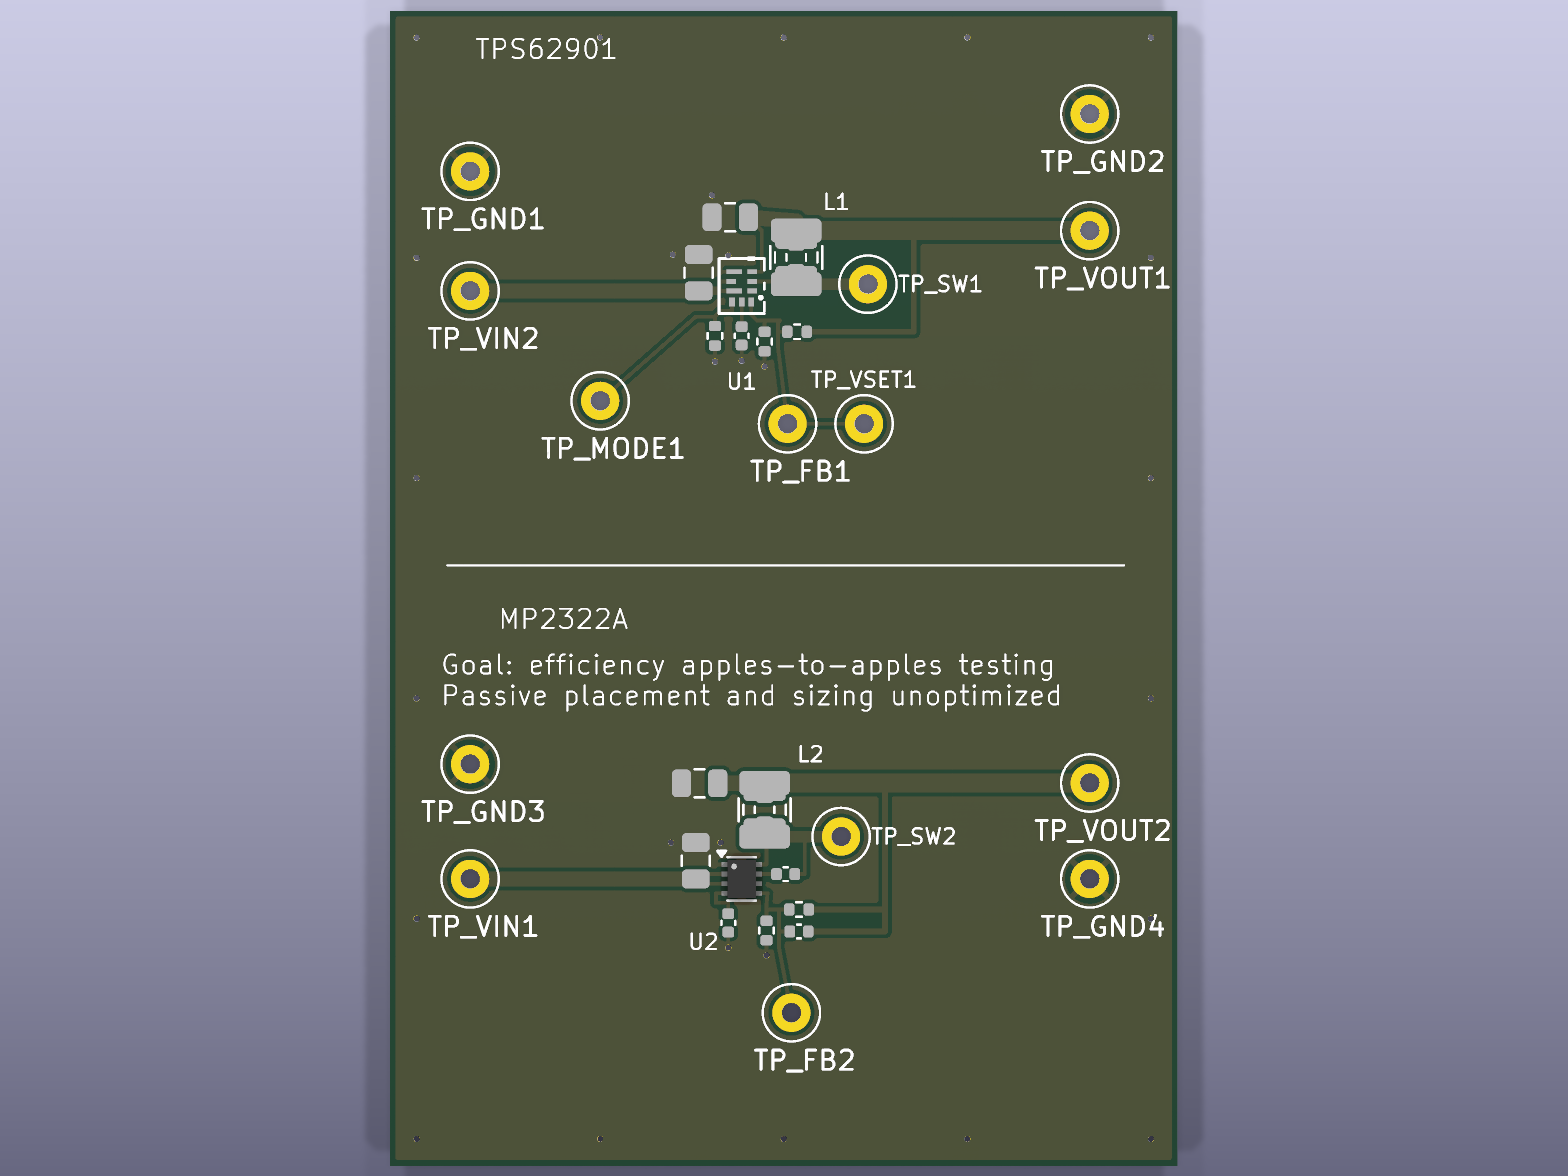
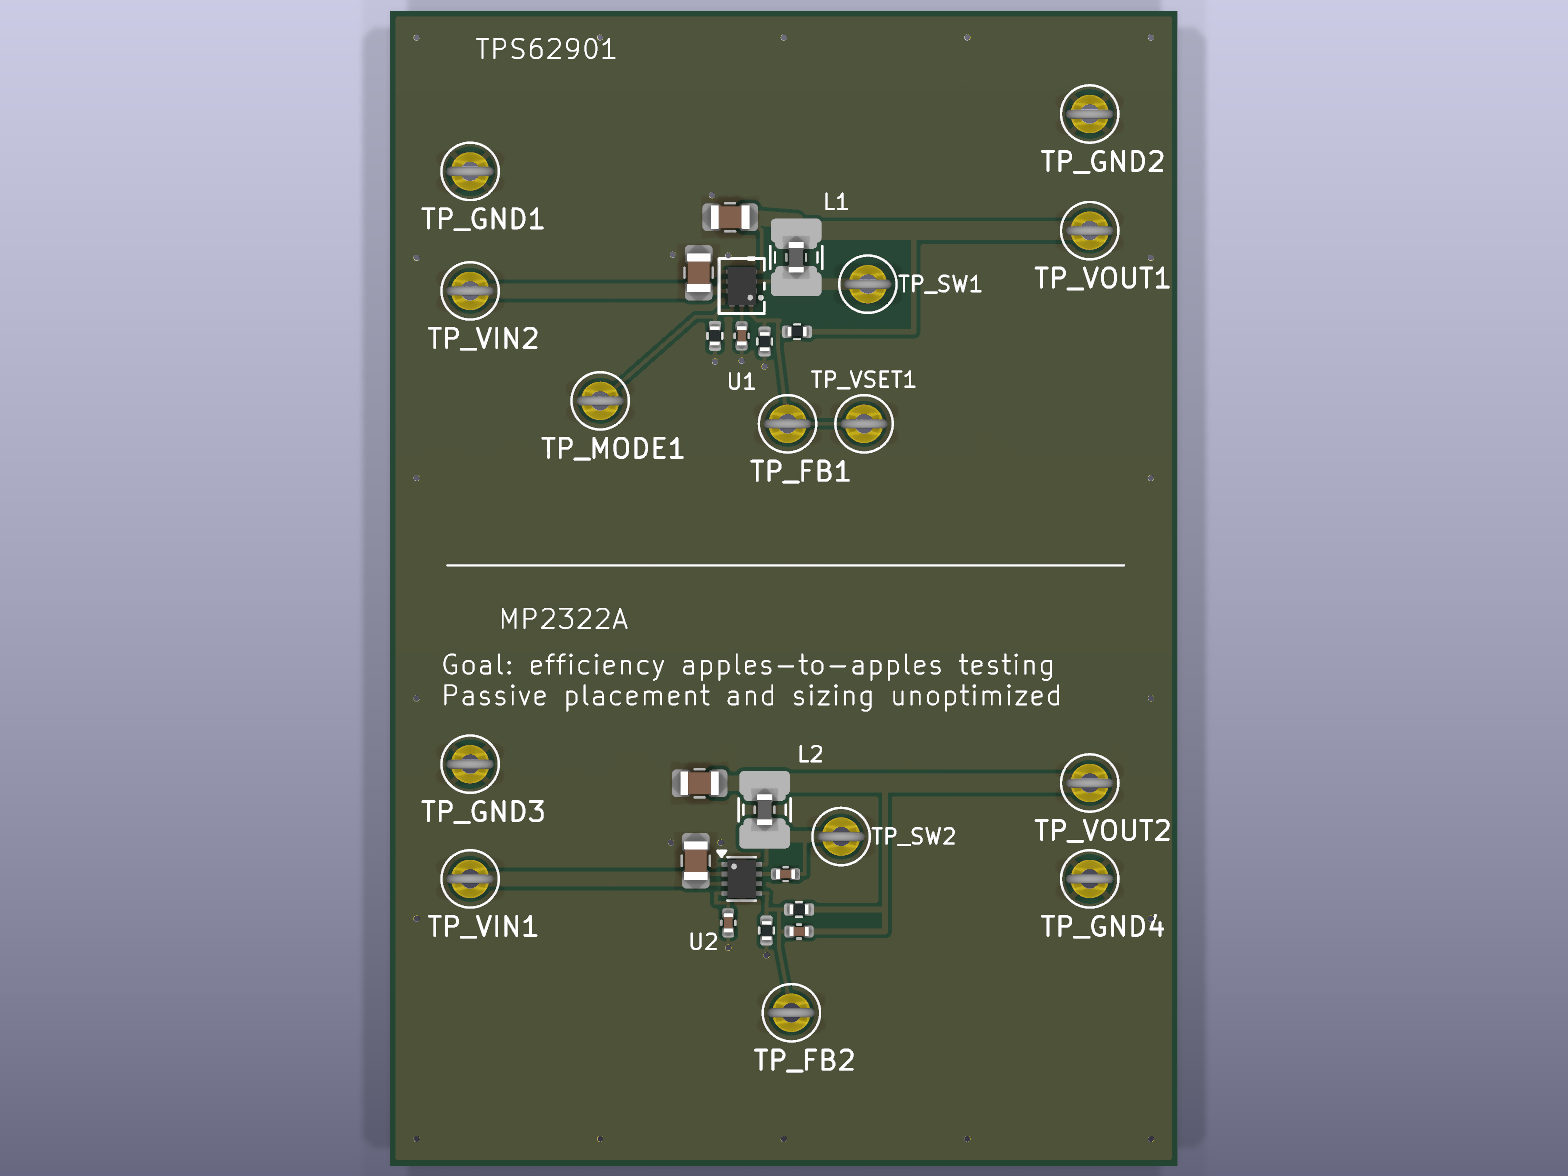
MP2322A vs TP62901 rev A: add U1 3D model, refresh renders

diff --git a/docs/mp2322a-vs-tp62901/a/index.html b/docs/mp2322a-vs-tp62901/a/index.html
@@ -12,4 +12,4 @@ ul.links a{display:inline-block;padding:8px 12px;border:1px solid var(--line);bo
 table{border-collapse:collapse;width:100%}td,th{border-bottom:1px solid var(--line);padding:6px 4px;text-align:left}
 kicanvas-embed{display:block;height:70vh;border:1px solid var(--line);border-radius:10px;overflow:hidden}
 .note{color:var(--mute);font-size:.85rem}
-</style></head><body><main><p class="meta"><a href="../">MP2322A vs TP62901 — all revisions</a></p><h1>MP2322A vs TP62901</h1><p class="meta">Revision <b>A</b> · built 2026-11-13 23:52 UTC</p><div class="grid"><figure><a href="render-top.png"><img loading="lazy" src="render-top.png" alt="Top"></a><figcaption>Top</figcaption></figure><figure><a href="render-bottom.png"><img loading="lazy" src="render-bottom.png" alt="Bottom"></a><figcaption>Bottom</figcaption></figure><figure><a href="render-iso.png"><img loading="lazy" src="render-iso.png" alt="3D view"></a><figcaption>3D view</figcaption></figure></div><h2>Schematic</h2><div class="grid"><figure><a href="schematic-svg/MP2322A%20vs%20TP62901.svg"><img loading="lazy" src="schematic-svg/MP2322A%20vs%20TP62901.svg" alt="Sheet 1"></a><figcaption>Sheet 1</figcaption></figure></div><ul class="links"><li><a href="schematic.pdf">Schematic PDF</a></li></ul><h2>Layout</h2><div class="grid"><figure><a href="board-top.svg"><img loading="lazy" src="board-top.svg" alt="Top (copper, mask, silk)"></a><figcaption>Top (copper, mask, silk)</figcaption></figure><figure><a href="board-bottom.svg"><img loading="lazy" src="board-bottom.svg" alt="Bottom, seen from below"></a><figcaption>Bottom, seen from below</figcaption></figure></div><ul class="links"><li><a href="layers/F_Cu.svg">F.Cu</a></li><li><a href="layers/B_Cu.svg">B.Cu</a></li><li><a href="layers/F_SilkS.svg">F.SilkS</a></li><li><a href="layers/B_SilkS.svg">B.SilkS</a></li><li><a href="board.pdf">Board PDF</a></li></ul><h2>Files</h2><ul class="links"><li><a href="bom.csv">BOM (CSV)</a></li></ul></main></body></html>
+</style></head><body><main><p class="meta"><a href="../">MP2322A vs TP62901 — all revisions</a></p><h1>MP2322A vs TP62901</h1><p class="meta">Revision <b>A</b> · built 2026-11-14 00:18 UTC</p><div class="grid"><figure><a href="render-top.png"><img loading="lazy" src="render-top.png" alt="Top"></a><figcaption>Top</figcaption></figure><figure><a href="render-bottom.png"><img loading="lazy" src="render-bottom.png" alt="Bottom"></a><figcaption>Bottom</figcaption></figure><figure><a href="render-iso.png"><img loading="lazy" src="render-iso.png" alt="3D view"></a><figcaption>3D view</figcaption></figure></div><h2>Schematic</h2><div class="grid"><figure><a href="schematic-svg/MP2322A%20vs%20TP62901.svg"><img loading="lazy" src="schematic-svg/MP2322A%20vs%20TP62901.svg" alt="Sheet 1"></a><figcaption>Sheet 1</figcaption></figure></div><ul class="links"><li><a href="schematic.pdf">Schematic PDF</a></li></ul><h2>Layout</h2><div class="grid"><figure><a href="board-top.svg"><img loading="lazy" src="board-top.svg" alt="Top (copper, mask, silk)"></a><figcaption>Top (copper, mask, silk)</figcaption></figure><figure><a href="board-bottom.svg"><img loading="lazy" src="board-bottom.svg" alt="Bottom, seen from below"></a><figcaption>Bottom, seen from below</figcaption></figure></div><ul class="links"><li><a href="layers/F_Cu.svg">F.Cu</a></li><li><a href="layers/B_Cu.svg">B.Cu</a></li><li><a href="layers/F_SilkS.svg">F.SilkS</a></li><li><a href="layers/B_SilkS.svg">B.SilkS</a></li><li><a href="board.pdf">Board PDF</a></li></ul><h2>Files</h2><ul class="links"><li><a href="bom.csv">BOM (CSV)</a></li></ul></main></body></html>

diff --git a/docs/mp2322a-vs-tp62901/index.html b/docs/mp2322a-vs-tp62901/index.html
@@ -12,4 +12,4 @@ ul.links a{display:inline-block;padding:8px 12px;border:1px solid var(--line);bo
 table{border-collapse:collapse;width:100%}td,th{border-bottom:1px solid var(--line);padding:6px 4px;text-align:left}
 kicanvas-embed{display:block;height:70vh;border:1px solid var(--line);border-radius:10px;overflow:hidden}
 .note{color:var(--mute);font-size:.85rem}
-</style></head><body><main><p class="meta"><a href="../">All boards</a></p><h1>MP2322A vs TP62901</h1><figure><a href="a/"><img loading="lazy" src="a/render-iso.png" alt="Latest: rev A"></a><figcaption>Latest: rev A</figcaption></figure><h2>Revisions</h2><table><tr><th>Rev</th><th>Built</th><th>Commit</th></tr><tr><td><a href="a/">A</a></td><td>2026-11-13 23:52 UTC</td><td></td></tr></table></main></body></html>
+</style></head><body><main><p class="meta"><a href="../">All boards</a></p><h1>MP2322A vs TP62901</h1><figure><a href="a/"><img loading="lazy" src="a/render-iso.png" alt="Latest: rev A"></a><figcaption>Latest: rev A</figcaption></figure><h2>Revisions</h2><table><tr><th>Rev</th><th>Built</th><th>Commit</th></tr><tr><td><a href="a/">A</a></td><td>2026-11-14 00:18 UTC</td><td></td></tr></table></main></body></html>
